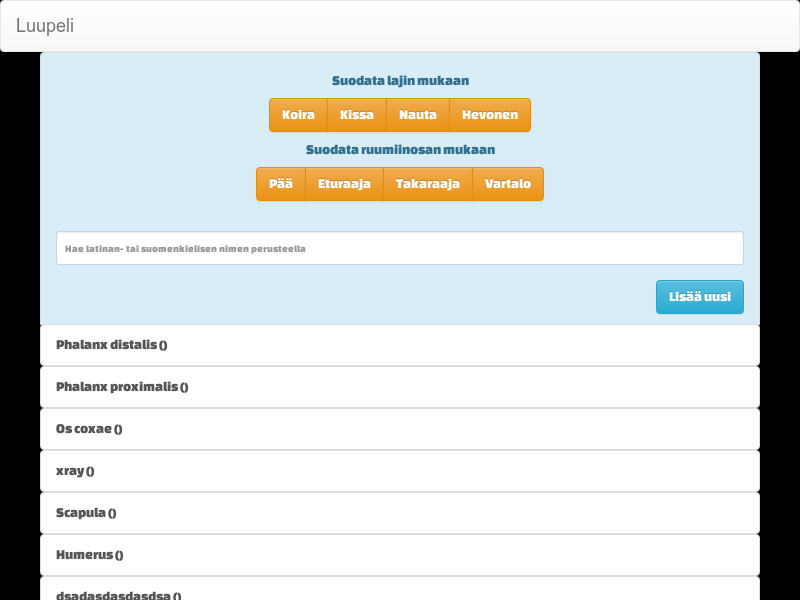
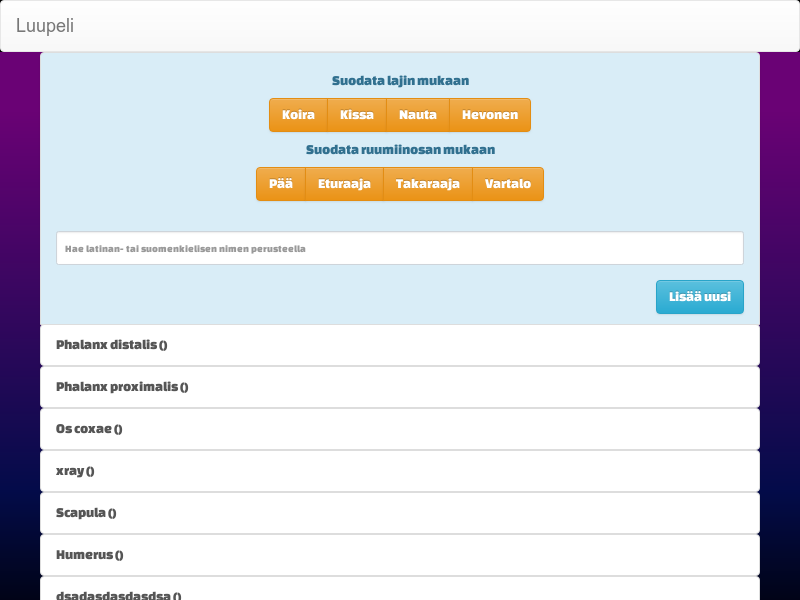
toLowerCase and other fiddling with tests

Changed region(s): [[0.9375, 0.06, 1.0, 1.0], [0.0, 0.06, 0.0625, 1.0]]

diff --git a/src/menus/UpdateBone.test.js b/src/menus/UpdateBone.test.js
@@ -5,6 +5,7 @@ let page
 
 beforeAll(async () => {
 	browser = await puppeteer.launch({args: ['--no-sandbox']})
+	jasmine.DEFAULT_TIMEOUT_INTERVAL = 15000
 	page = await browser.newPage()
 	await page.setViewport({ width: 1280, height: 800 })
 })
@@ -30,10 +31,11 @@ describe('UpdateBone tests', () => {
 
   test('Pressing "Lisää kuvakenttä"-button adds a new image field', async () => {
 		await page.waitForSelector('#addNewImageFieldButton')
-	
+		
 		//Wait for a while for the page to render possibly already existing images
 		//Otherwise the number of .list-group-items might not match
-		await page.waitFor(1000)
+		await page.waitFor(2000)
+		
 		const elementList = await page.evaluate(() => {
 			const lis = Array.from(document.querySelectorAll('.list-group-item'))
 			return lis.map(li => li.textContent)
@@ -52,7 +54,7 @@ describe('UpdateBone tests', () => {
     
     //Wait for a while for the page to render possibly already existing images
     //Otherwise the number of .list-group-items might not match
-    await page.waitFor(1000)
+    await page.waitFor(2000)
     
     await page.click('#addNewImageFieldButton')
     
@@ -80,7 +82,7 @@ describe('UpdateBone tests', () => {
 			const lis = Array.from(document.querySelectorAll('.list-group-item'))
 			var foundNotif = false
 			lis.forEach(li => {
-				if (li.textContent.includes("Poistetaan")) {
+				if (li.textContent.toLowerCase().includes("poistetaan")) {
 					foundNotif = true
 				}
 			})
@@ -89,12 +91,31 @@ describe('UpdateBone tests', () => {
 	  
 	  expect(foundNotif).toBe(true)
 	}, 20000)
+	
+	test('Pressing "Peruuta poisto"-button on a previously uploaded image unhides image fields', async () => {
+		await page.waitForSelector('#deleteImageButton0')
+	  await page.click('#deleteImageButton0')
+	  await page.click('#deleteImageButton0')
+	  
+	  const foundNotif = await page.evaluate(() => {
+			const lis = Array.from(document.querySelectorAll('.list-group-item'))
+			var foundNotif = false
+			lis.forEach(li => {
+				if (li.textContent.toLowerCase().includes("poistetaan")) {
+					foundNotif = true
+				}
+			})
+			return foundNotif
+		})
+	  
+	  expect(foundNotif).toBe(false)
+	}, 20000)
   
   test('Pressing "Takaisin listaukseen"-button leads to listing', async () => {
     await page.waitForSelector('#backToListing')
     await page.click('#backToListing')
     
     const textContent = await page.$eval('#listGroup', el => el.textContent)
-    expect(textContent.includes("Suodata lajin mukaan")).toBe(true)
+    expect(textContent.toLowerCase().includes("suodata lajin mukaan")).toBe(true)
   }, 20000)
 })

diff --git a/src/menus/AddBone.test.js b/src/menus/AddBone.test.js
@@ -5,6 +5,7 @@ let page
 
 beforeAll(async () => {
 	browser = await puppeteer.launch({args: ['--no-sandbox']})
+	jasmine.DEFAULT_TIMEOUT_INTERVAL = 15000
 	page = await browser.newPage()
 	await page.setViewport({ width: 1280, height: 800 })
 })
@@ -27,7 +28,7 @@ describe('AddBone tests', () => {
   test('Pressing "Lisää kuvakenttä"-button adds a new image field', async () => {
 		await page.waitForSelector('#addNewImageFieldButton')
 		
-		await page.waitFor(1000)
+		await page.waitFor(2000)
 		const elementList = await page.evaluate(() => {
 			const lis = Array.from(document.querySelectorAll('.list-group-item'))
 			return lis.map(li => li.textContent)
@@ -35,7 +36,7 @@ describe('AddBone tests', () => {
 		
     await page.click('#addNewImageFieldButton')
     
-    await page.waitFor(1000)
+    await page.waitFor(2000)
 		const elementListAfterAdd = await page.evaluate(() => {
 			const lis = Array.from(document.querySelectorAll('.list-group-item'))
 			return lis.map(li => li.textContent)
@@ -47,7 +48,7 @@ describe('AddBone tests', () => {
     await page.waitForSelector('#addNewImageFieldButton')
     await page.click('#addNewImageFieldButton')
     
-    await page.waitFor(1000)
+    await page.waitFor(2000)
 		const elementList = await page.evaluate(() => {
 			const lis = Array.from(document.querySelectorAll('.list-group-item'))
 			return lis.map(li => li.textContent)
@@ -56,7 +57,7 @@ describe('AddBone tests', () => {
     await page.waitForSelector('#removeNewImageFieldButton')
     await page.click('#removeNewImageFieldButton')
     
-    await page.waitFor(1000)
+    await page.waitFor(2000)
 		const elementListAfterRemove = await page.evaluate(() => {
 			const lis = Array.from(document.querySelectorAll('.list-group-item'))
 			return lis.map(li => li.textContent)
@@ -70,6 +71,6 @@ describe('AddBone tests', () => {
     await page.click('#backToListing')
     
     const textContent = await page.$eval('#listGroup', el => el.textContent)
-    expect(textContent.includes("Suodata lajin mukaan")).toBe(true)
+    expect(textContent.toLowerCase().includes("suodata lajin mukaan")).toBe(true)
   }, 20000)
 })

diff --git a/src/menus/BoneListing.test.js b/src/menus/BoneListing.test.js
@@ -5,6 +5,7 @@ let page
 
 beforeAll(async () => {
 	browser = await puppeteer.launch({args: ['--no-sandbox']})
+	jasmine.DEFAULT_TIMEOUT_INTERVAL = 15000
 	page = await browser.newPage()
 	await page.setViewport({ width: 1280, height: 800 })
 })
@@ -34,7 +35,7 @@ describe('BoneListing tests', () => {
     //Not having this screenshot will break the tests..
     await page.screenshot({ path: 'animals.png' })
     const textContent = await page.$eval('#listGroup', el => el.textContent)
-    expect(textContent.includes("Koira")).toBe(true)
+    expect(textContent.toLowerCase().includes("koira")).toBe(true)
   }, 20000)
 
   test('bodyparts appear', async () => {
@@ -42,7 +43,7 @@ describe('BoneListing tests', () => {
     
     await page.screenshot({ path: 'bones.png' })
     const textContent = await page.$eval('#listGroup', el => el.textContent)
-    expect(textContent.includes("Eturaaja")).toBe(true)
+    expect(textContent.toLowerCase().includes("eturaaja")).toBe(true)
   }, 20000)
 
 	test('Lisää uusi-button leads to an empty form', async () => {

diff --git a/src/menus/UpdateBone.js b/src/menus/UpdateBone.js
@@ -645,7 +645,7 @@ class UpdateBone extends React.Component {
 									<h2 style={titleStyle}><Label style={labelStyle}>Kuvat</Label></h2>
 								</Col>
 							</Row>
-							{this.state.images.map((file, i) => <li key={file.id} className="list-group-item clearfix" style={listStyle}>
+							{this.state.images.map((file, i) => <li key={file.id} id={"bone" + i} className="list-group-item clearfix" style={listStyle}>
 								{(this.state.images[i].deleted
 									? " (Poistetaan tallennuksen yhteydessä)" :
 									<Row className="show-grid">

diff --git a/src/menus/Home.puppeteer.test.js b/src/menus/Home.puppeteer.test.js
@@ -105,7 +105,8 @@ describe("Home (puppeteer) tests", () => {
     
     // const preTextContent = await page.$eval('#styleName', el => el.preTextContent)
     // expect(preTextContent.includes("blood-dragon")).toBe(true)
-
+    
+	await page.waitForSelector('#themeChangeButton')
     await page.click('#themeChangeButton')
     const textContent = await page.$eval('#styleName', el => el.textContent)
     expect(textContent.includes("blood-dragon")).toBe(false)
